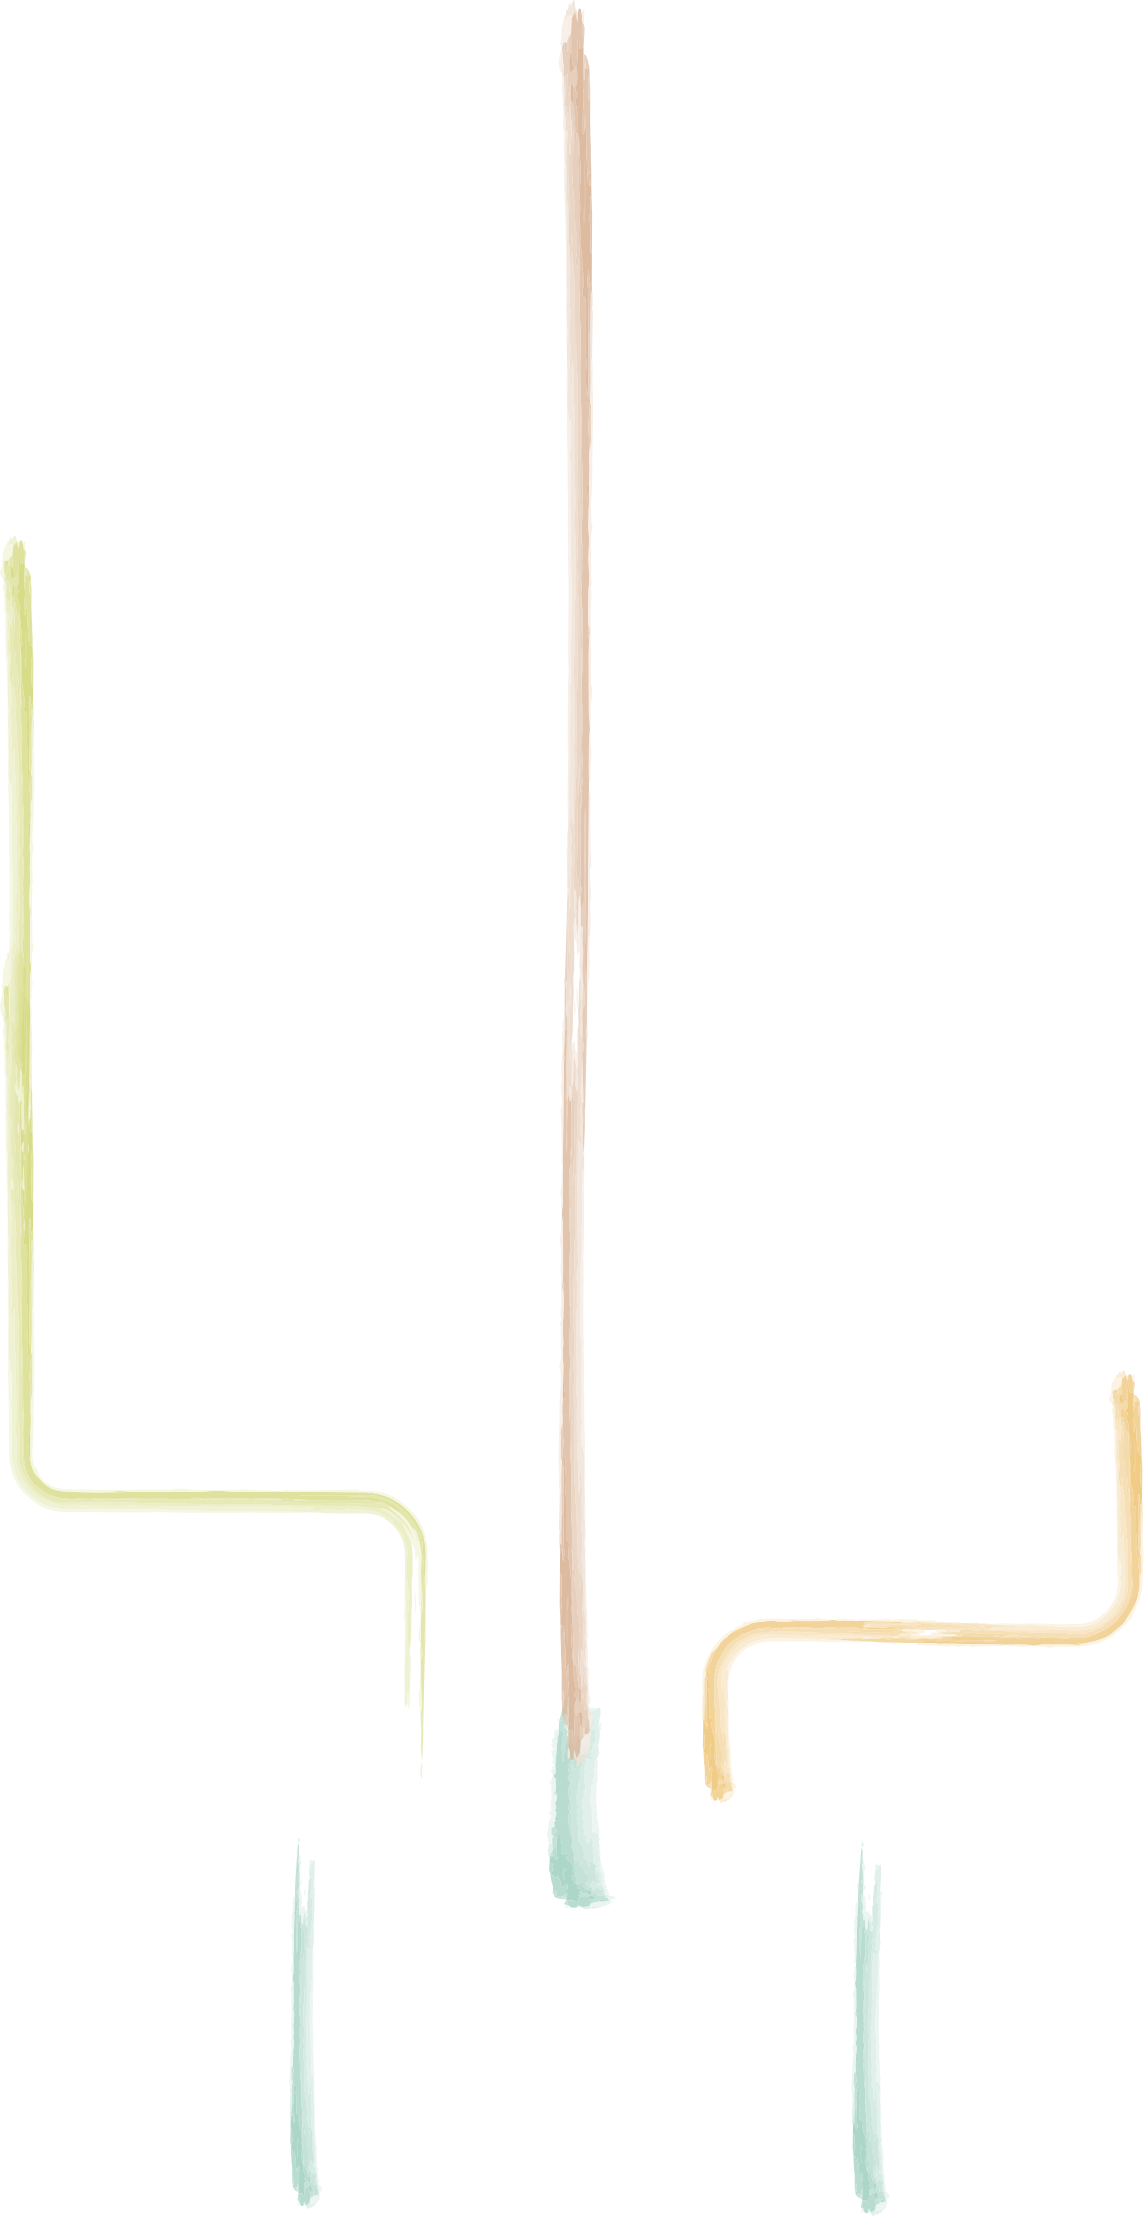
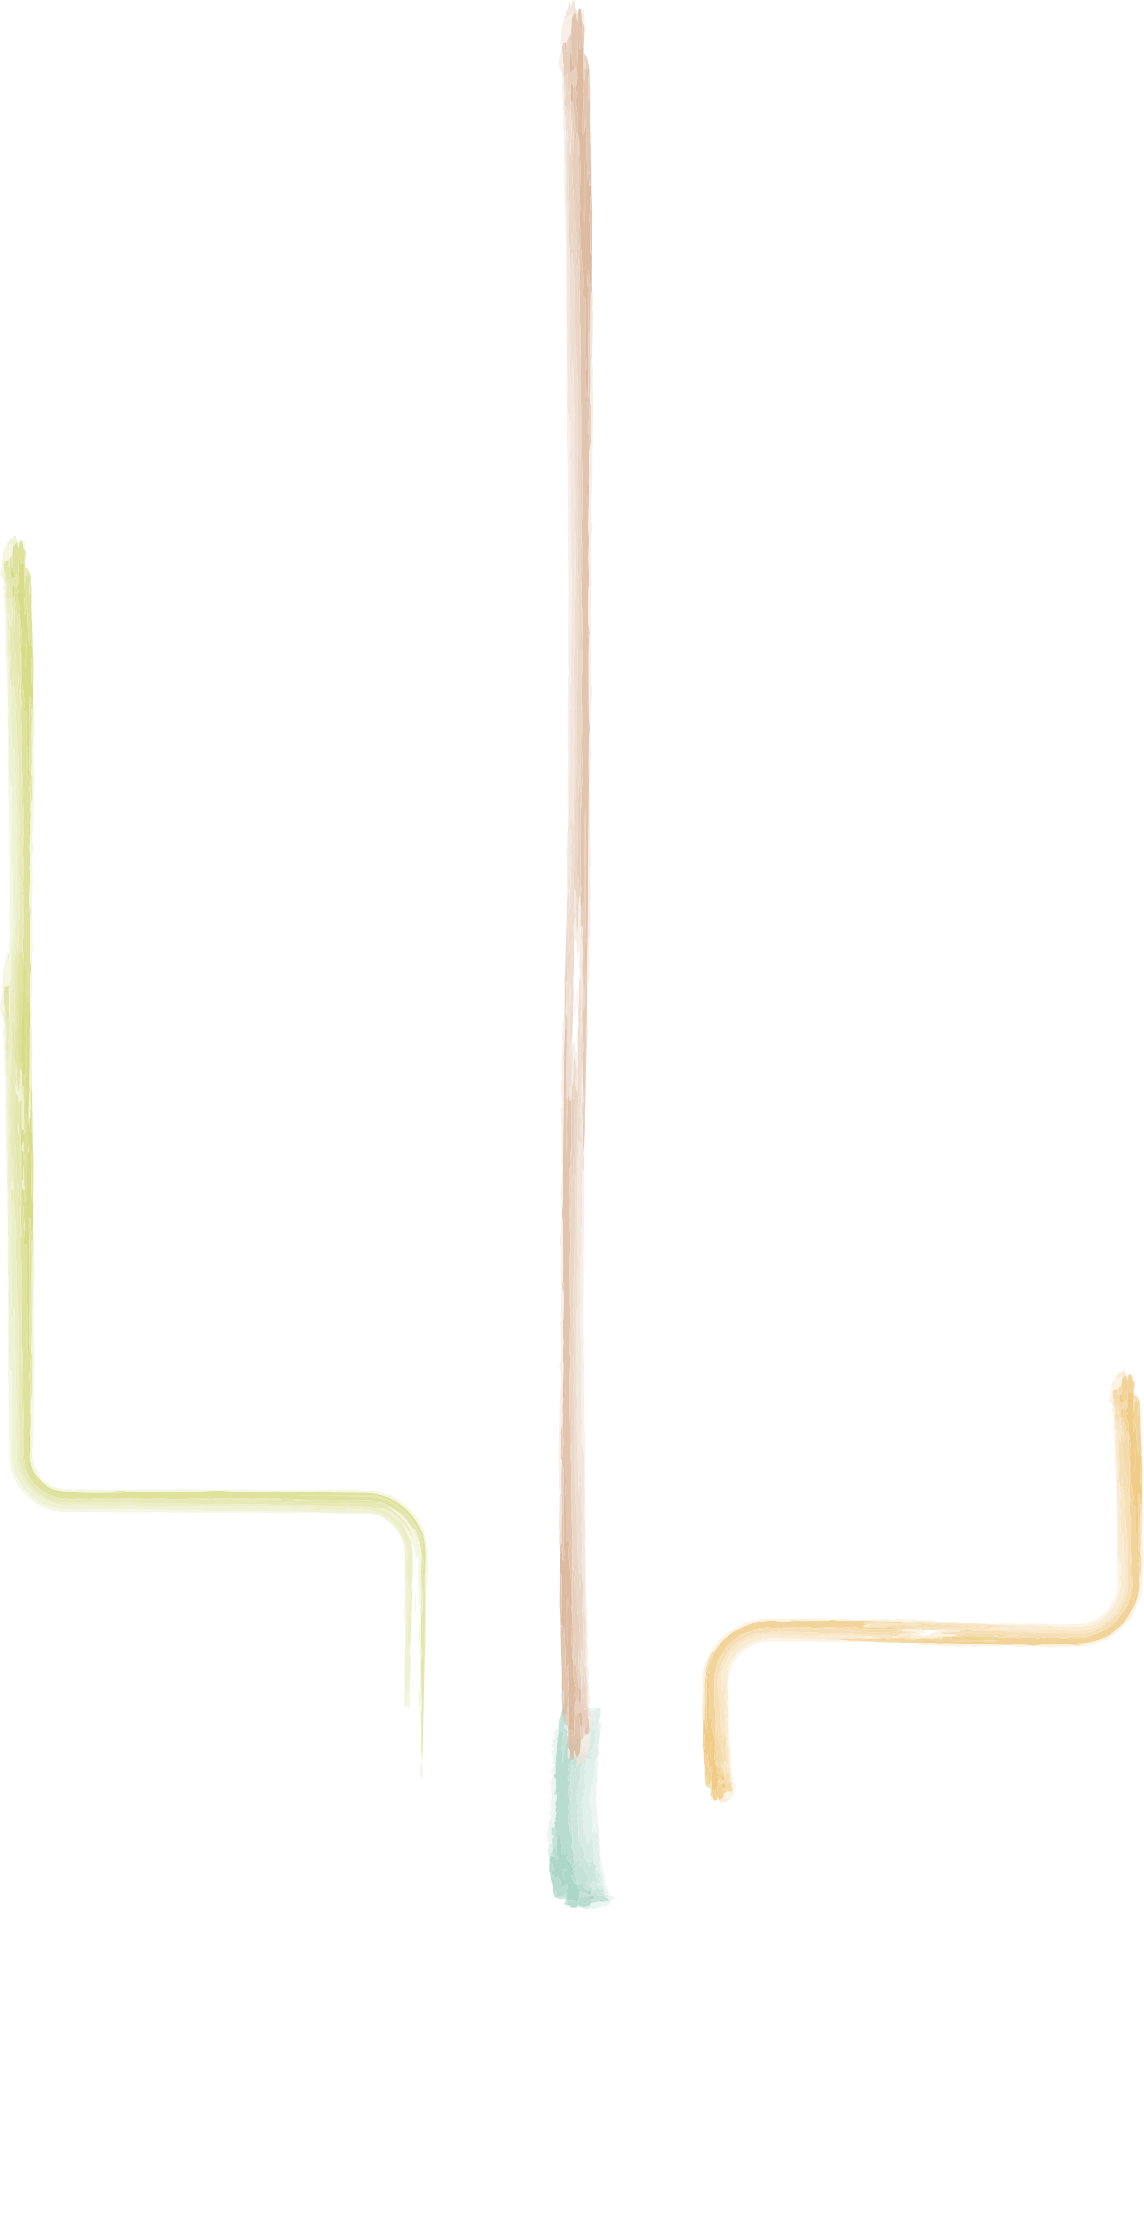
update

Changed region(s): [[0.7343, 0.8407, 0.7955, 1.0], [0.2448, 0.8407, 0.2753, 0.9964]]

diff --git a/assets/css/custom.css b/assets/css/custom.css
@@ -2624,7 +2624,7 @@ ol > li {
     position: relative;
     overflow: hidden;
     background: #fff url(../../images/timeline.png) center 50px no-repeat;
-    min-height: 2616px;
+    min-height: 2340px;
     transition: all .3s ease;
 }
 
@@ -2686,10 +2686,10 @@ ol > li {
 }
 .otime2.ot10 {
     color: #70b39f;
-    background-color: #fff;
-    top: 1900px;
+    background-color: transparent;
+    top: 1808px;
     padding: 30px 60px;
-    border: 3px solid #8fc5b6;
+    border: 3px solid transparent;
     border-radius: 20px;
     letter-spacing: 0.1em;
     font-weight: bold;
@@ -2768,20 +2768,20 @@ ol > li {
     border-radius: 40px;
     box-shadow: 0 0 20px#70b39f;
     background-color: #fff;
-    padding: 20px;
+    padding: 80px 20px 20px;
     position: absolute;
     left: 50%;
-    top: 2100px;
+    top: 1797px;
     transform: translateX(-50%);
     width: 1340px;
     max-width: 92%;
-    height: 300px;
+    height: 365px;
 }
 
 .hinfo[num="9"] {
     border-color: #70b39f;
     top: 50%;
-    transform: translate(-146%, -50%);
+    transform: translate(-146%, -38%);
     width: 434px;
     padding: 10px;
 }
@@ -2789,7 +2789,7 @@ ol > li {
 .hinfo[num="10"] {
     border-color: #70b39f;
     top: 50%;
-    transform: translate(-21%, -50%);
+    transform: translate(-21%, -38%);
     width: 800px;
     padding: 10px;
     overflow: visible;
